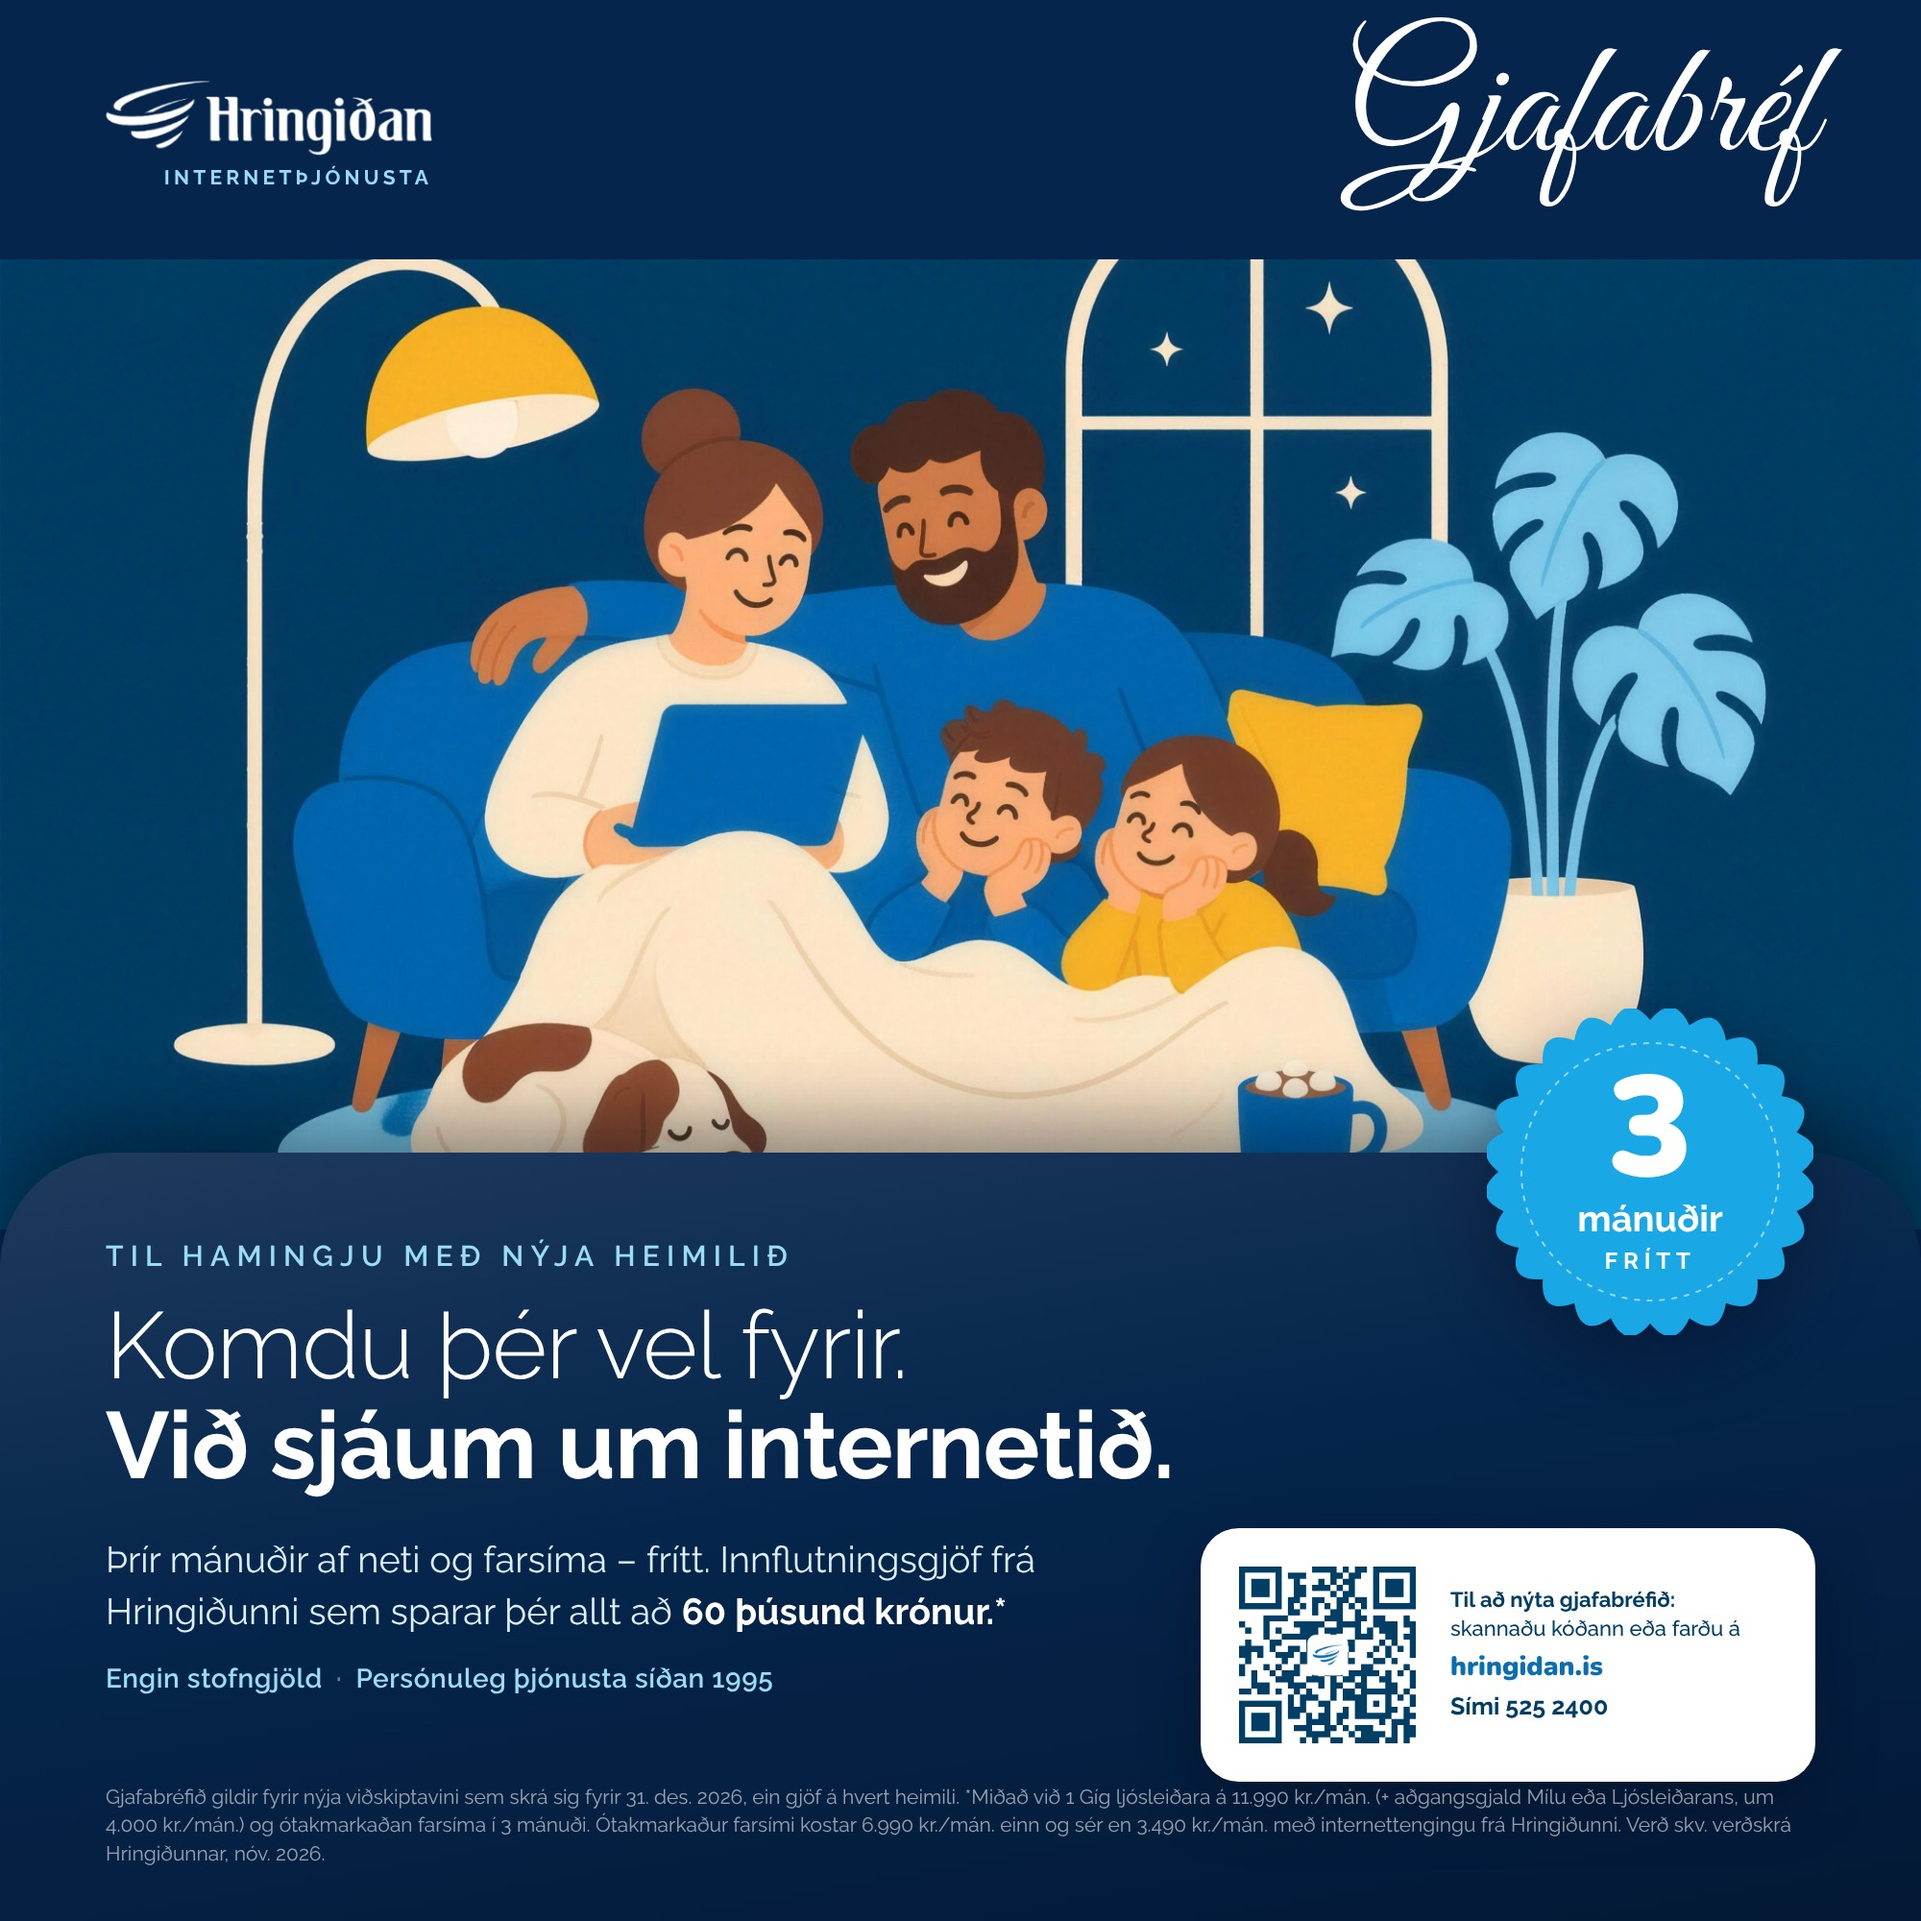
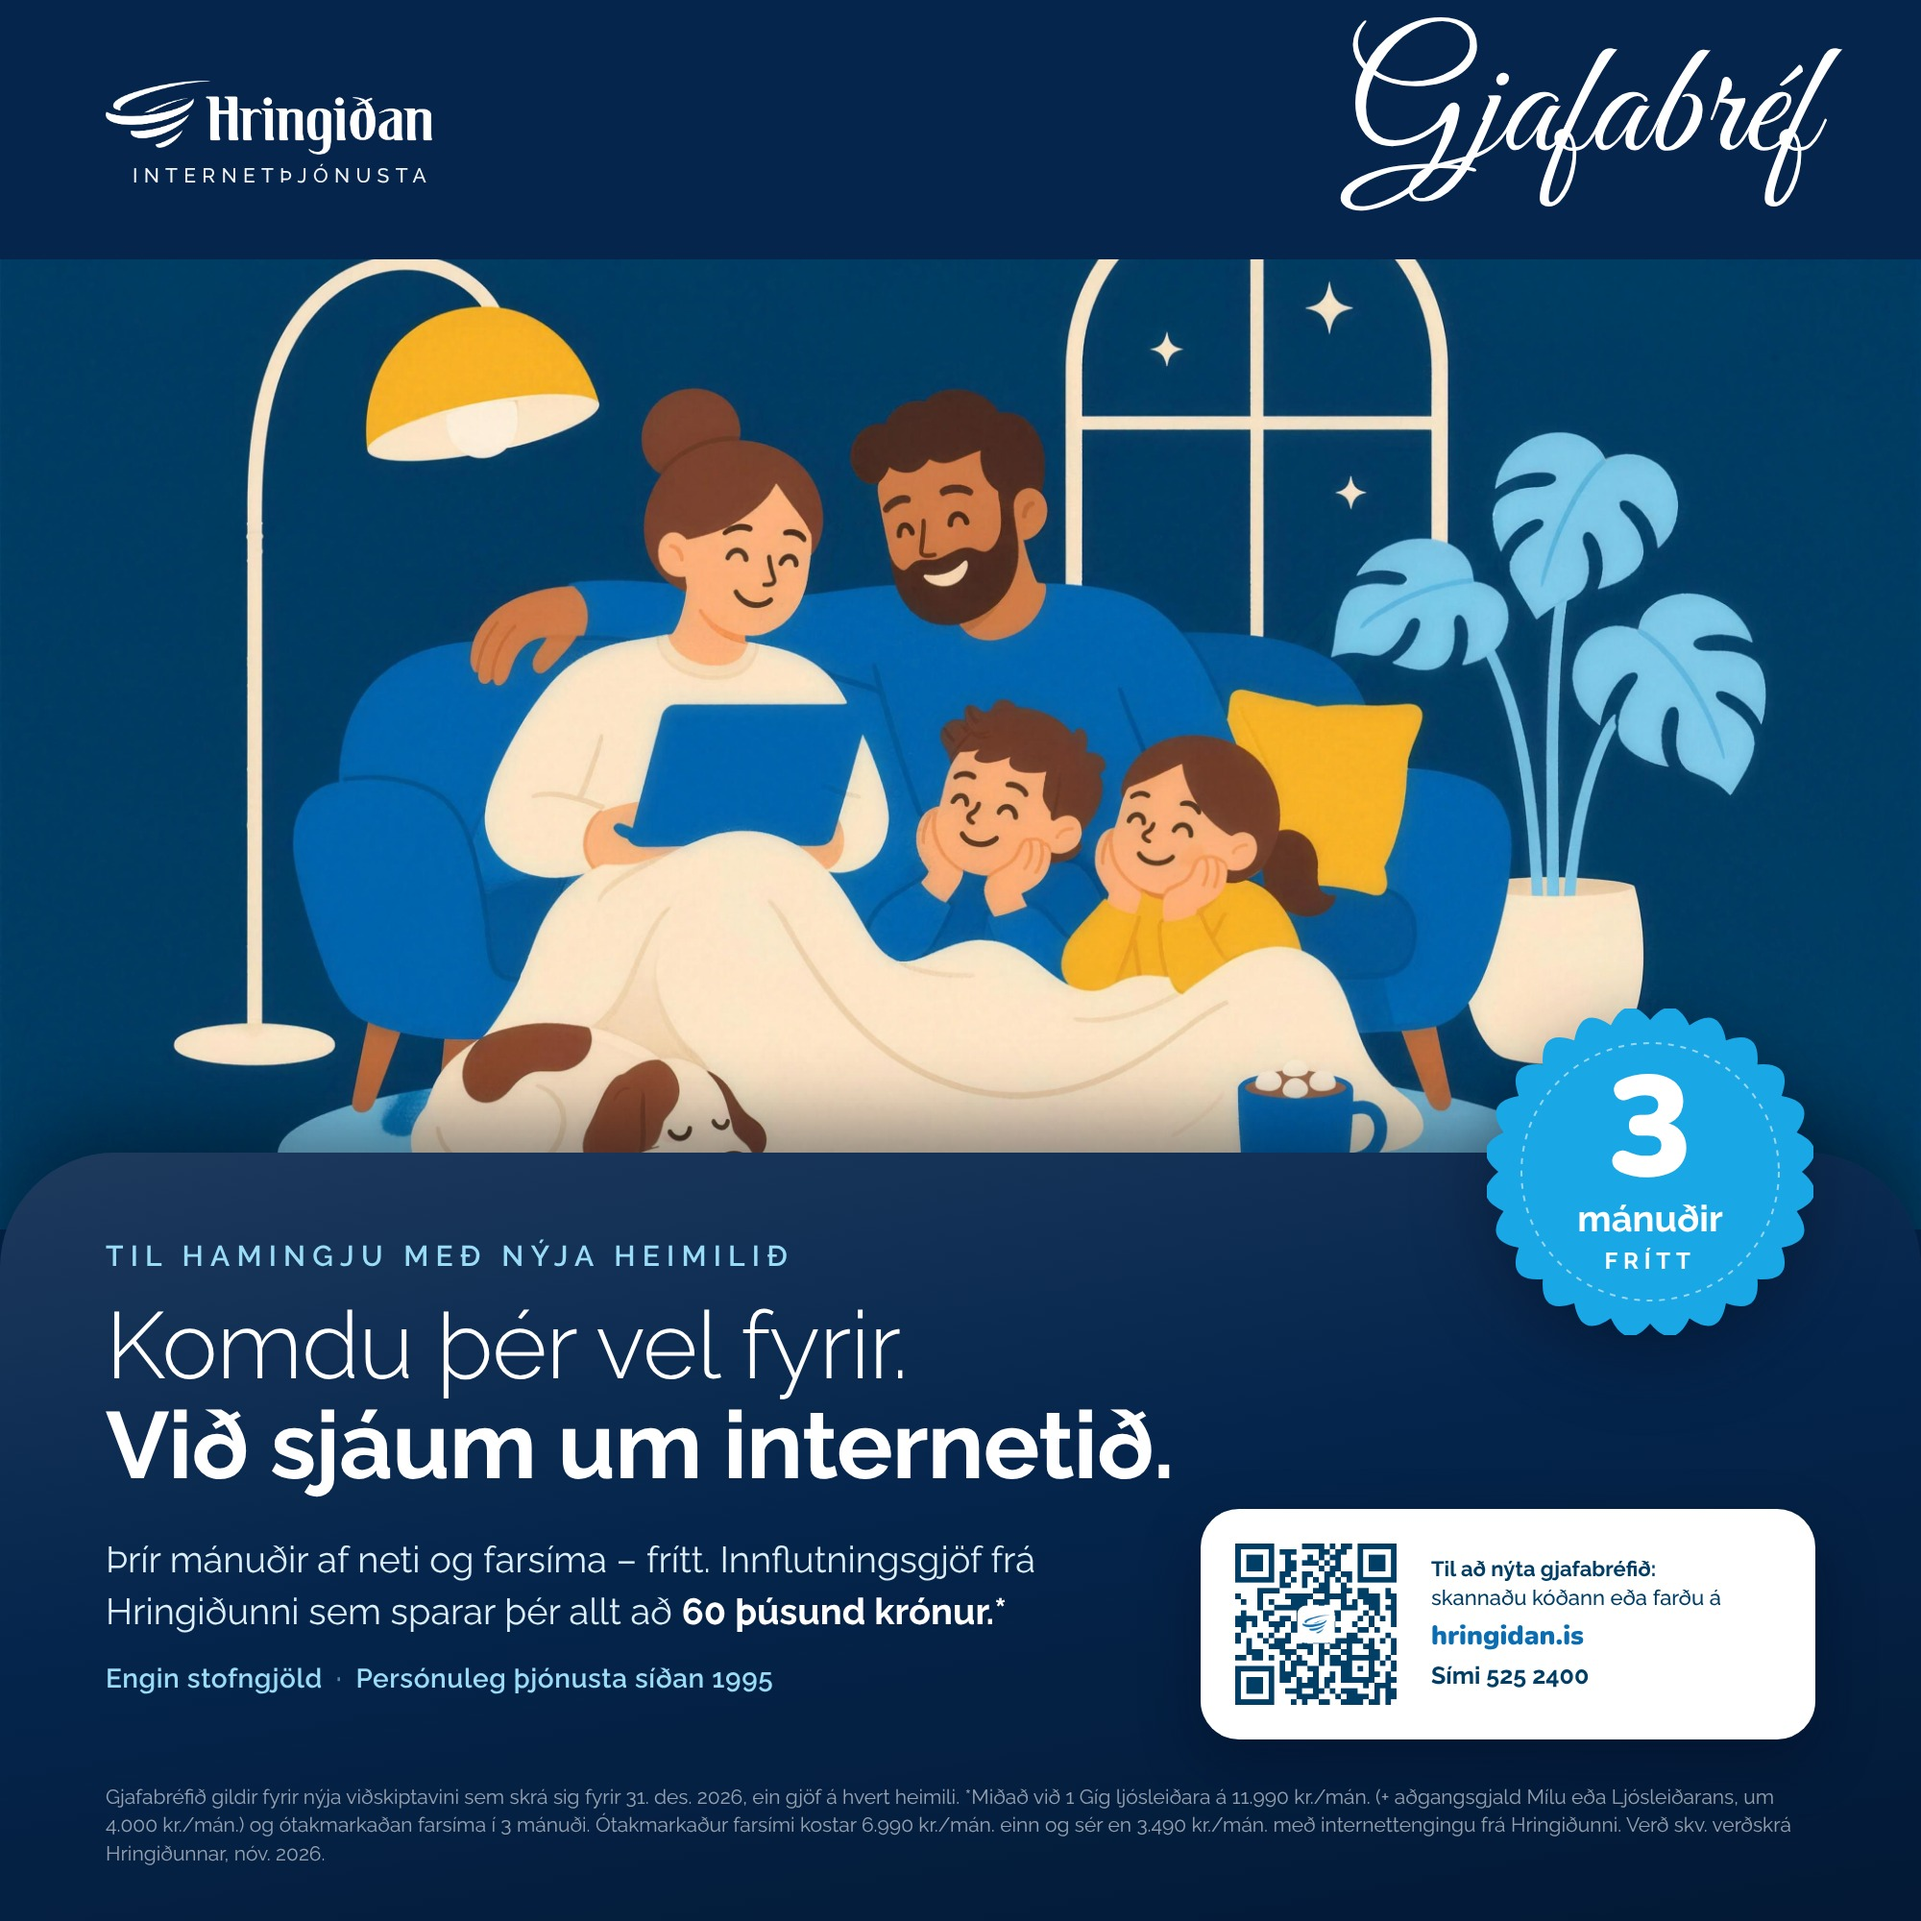
Hringiðan: opinbert lógó af hringidan.is og QR-spjald fært ofar
Hvíta lógóið sótt af hringidan.is í stað útklippu, „Internetþjónusta"
stillt eins og í opinbera merkinu. QR-spjaldið minnkað lítillega og
fært upp svo það liggi ekki að smáletrinu.

Claude-Session: https://claude.ai/code/session_01JAXd2m9cesSq5STdzJxvnq

Changed region(s): [[0.62, 0.775, 0.961, 0.93], [0.062, 0.031, 0.217, 0.093]]

diff --git a/auglysingar/hringidan/src/hringidan-gjafabref-2d.html b/auglysingar/hringidan/src/hringidan-gjafabref-2d.html
@@ -5,7 +5,7 @@
   .ad { background: #05254C; color: #fff; }
   .head { position: absolute; left: 0; top: 0; width: 2000px; height: 270px; background: #05254C; }
   .logo { position: absolute; left: 110px; top: 84px; width: 340px; }
-  .logosub { position: absolute; left: 110px; top: 172px; width: 340px; text-align: right; font-size: 21px; font-weight: 700; letter-spacing: .2em; text-transform: uppercase; color: #9ADBF5; }
+  .logosub { position: absolute; left: 110px; top: 170px; width: 340px; text-align: right; font-size: 21px; font-weight: 500; letter-spacing: .3em; text-transform: uppercase; color: rgba(255,255,255,.95); }
   .gift { position: absolute; right: 110px; top: 34px; font-family: 'GreatVibes', cursive; font-size: 168px; line-height: 1; color: #fff; }
   .photo { position: absolute; left: 0; top: 270px; width: 2000px; height: 1010px; overflow: hidden; }
   .photo img { width: 2000px; height: 1010px; display: block; object-fit: cover; object-position: 50% 60%; background: #05254C; }
@@ -20,10 +20,10 @@
   .sub b { color: #fff; font-weight: 700; }
   .quiet { margin-top: 26px; font-size: 28px; font-weight: 600; color: var(--sky); letter-spacing: .02em; }
   .quiet span { opacity: .55; margin: 0 14px; }
-  .cta { width: 640px; border-radius: 40px; padding: 30px; display: flex; align-items: center; gap: 26px; margin-top: -6px;
+  .cta { width: 640px; border-radius: 40px; padding: 26px; display: flex; align-items: center; gap: 26px; margin-top: -26px;
           background: #fff; color: var(--navy); box-shadow: 0 24px 60px rgba(0,10,30,.35); }
-  .cta .qr { width: 204px; height: 204px; border-radius: 16px; padding: 10px; background: #fff; flex: none; }
-  .cta .qr img { width: 184px; height: 184px; display: block; }
+  .cta .qr { width: 188px; height: 188px; border-radius: 16px; padding: 10px; background: #fff; flex: none; }
+  .cta .qr img { width: 168px; height: 168px; display: block; }
   .cta .txt { font-size: 22px; line-height: 1.35; font-weight: 500; }
   .cta .txt b { font-weight: 700; }
   .cta .txt .url { font-family: 'Nunito', sans-serif; font-weight: 900; font-size: 28px; margin: 6px 0 6px; color: var(--blue); }
@@ -37,7 +37,7 @@
   .seal .small { font-size: 24px; font-weight: 700; letter-spacing: .24em; text-transform: uppercase; margin-top: 10px; }
 </style></head><body><div class="ad">
   <div class="head"></div>
-  <img class="logo" src="logo_white.png" alt="Hringiðan"><div class="logosub">Internetþjónusta</div>
+  <img class="logo" src="logo_white_official.png" alt="Hringiðan"><div class="logosub">Internetþjónusta</div>
   <div class="gift">Gjafabréf</div>
   <div class="photo"><img src="illu.png" alt=""></div>
   <div class="panel">

diff --git a/auglysingar/hringidan/src/hringidan-gjafabref-ljosmynd.html b/auglysingar/hringidan/src/hringidan-gjafabref-ljosmynd.html
@@ -5,7 +5,7 @@
   .ad { background: #05254C; color: #fff; }
   .head { position: absolute; left: 0; top: 0; width: 2000px; height: 270px; background: #05254C; }
   .logo { position: absolute; left: 110px; top: 84px; width: 340px; }
-  .logosub { position: absolute; left: 110px; top: 172px; width: 340px; text-align: right; font-size: 21px; font-weight: 700; letter-spacing: .2em; text-transform: uppercase; color: #9ADBF5; }
+  .logosub { position: absolute; left: 110px; top: 170px; width: 340px; text-align: right; font-size: 21px; font-weight: 500; letter-spacing: .3em; text-transform: uppercase; color: rgba(255,255,255,.95); }
   .gift { position: absolute; right: 110px; top: 34px; font-family: 'GreatVibes', cursive; font-size: 168px; line-height: 1; color: #fff; }
   .photo { position: absolute; left: 0; top: 270px; width: 2000px; height: 1010px; overflow: hidden; }
   .photo img { width: 2000px; height: 1010px; display: block; object-fit: cover; object-position: 50% 72%; }
@@ -20,10 +20,10 @@
   .sub b { color: #fff; font-weight: 700; }
   .quiet { margin-top: 26px; font-size: 28px; font-weight: 600; color: var(--sky); letter-spacing: .02em; }
   .quiet span { opacity: .55; margin: 0 14px; }
-  .cta { width: 640px; border-radius: 40px; padding: 30px; display: flex; align-items: center; gap: 26px; margin-top: -6px;
+  .cta { width: 640px; border-radius: 40px; padding: 26px; display: flex; align-items: center; gap: 26px; margin-top: -26px;
           background: #fff; color: var(--navy); box-shadow: 0 24px 60px rgba(0,10,30,.35); }
-  .cta .qr { width: 204px; height: 204px; border-radius: 16px; padding: 10px; background: #fff; flex: none; }
-  .cta .qr img { width: 184px; height: 184px; display: block; }
+  .cta .qr { width: 188px; height: 188px; border-radius: 16px; padding: 10px; background: #fff; flex: none; }
+  .cta .qr img { width: 168px; height: 168px; display: block; }
   .cta .txt { font-size: 22px; line-height: 1.35; font-weight: 500; }
   .cta .txt b { font-weight: 700; }
   .cta .txt .url { font-family: 'Nunito', sans-serif; font-weight: 900; font-size: 28px; margin: 6px 0 6px; color: var(--blue); }
@@ -37,7 +37,7 @@
   .seal .small { font-size: 24px; font-weight: 700; letter-spacing: .24em; text-transform: uppercase; margin-top: 10px; }
 </style></head><body><div class="ad">
   <div class="head"></div>
-  <img class="logo" src="logo_white.png" alt="Hringiðan"><div class="logosub">Internetþjónusta</div>
+  <img class="logo" src="logo_white_official.png" alt="Hringiðan"><div class="logosub">Internetþjónusta</div>
   <div class="gift">Gjafabréf</div>
   <div class="photo"><img src="photo_c.jpg" alt=""></div>
   <div class="panel">

diff --git a/auglysingar/hringidan/src/hringidan-gjafakort.html b/auglysingar/hringidan/src/hringidan-gjafakort.html
@@ -40,7 +40,7 @@
 </style></head><body><div class="ad">
   <div class="bg"><img src="giftbg.jpg" alt=""></div>
   <div class="shade"></div>
-  <img class="logo" src="logo_white.png" alt="Hringiðan">
+  <img class="logo" src="logo_white_official.png" alt="Hringiðan">
   <div class="tag">Tengir þig við meira</div>
   <div class="corner">Fjölskylda<br>Fyrirtæki<br>Framtíðin<hr>Íslenskir innviðir<br>Betra líf</div>
   <div class="title">Gjafabréf</div>

diff --git a/auglysingar/hringidan/README.md b/auglysingar/hringidan/README.md
@@ -13,7 +13,7 @@ pabbinn horfir á hana, krakkarnir með spjaldtölvu fyrir framan sófann, ával
 | `hringidan-gjafabref-2d.png` / `.jpg` | Sama gjafabréfs-rammi með flatri 2D teikningu. 2000×2000. |
 | `hringidan-gjafakort.png` / `.jpg` | Gjafakort (25.000 kr.) í 1:1 eftir fyrirmynd með bláum borða og slaufu yfir íslenskt landslag, með alvöru Hringiðan-lógóinu. Gjafabréfsnúmer `HG-123456` er sýnishorn. |
 | `eldri/` | Fyrri umferðir til viðmiðunar: `hringidan-kosy-*` (fyrsta umferð) og `hringidan-gjafabref-rammi-*` (útgáfa með skrautramma og mynd í spjaldi). |
-| `src/` | Breytanlegar HTML/CSS skrár, leturgerðir (Raleway, Nunito, Great Vibes), lógó með gegnsæi, QR-kóði og myndir. |
+| `src/` | Breytanlegar HTML/CSS skrár, leturgerðir (Raleway, Nunito, Montserrat, Great Vibes, Dancing Script), opinbera hvíta lógóið af hringidan.is (`logo_white_official.png`), QR-kóðar og myndir. |
 
 ## Texti
 
